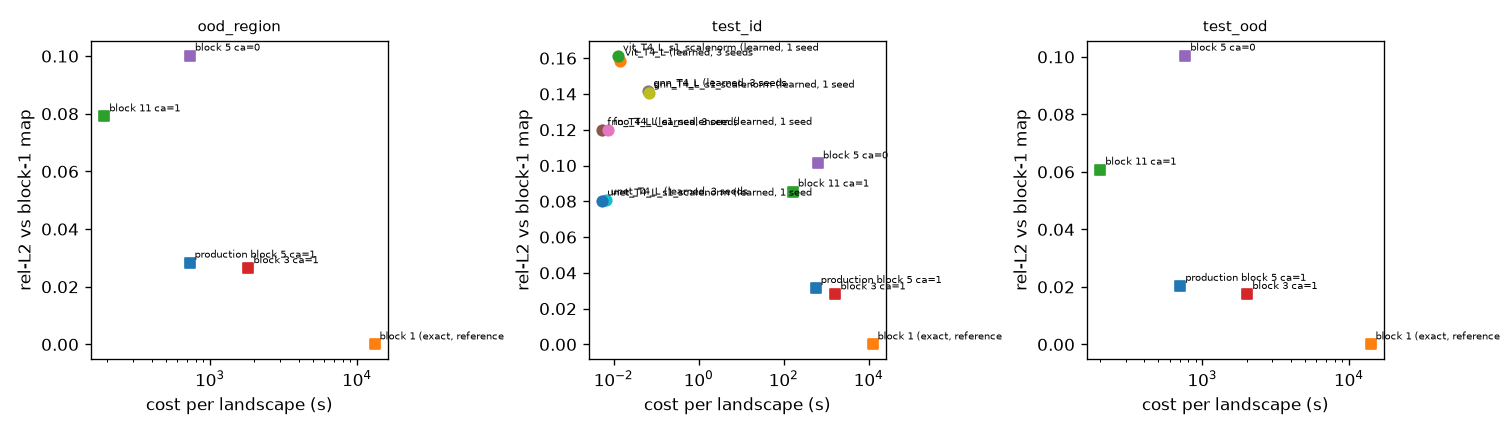
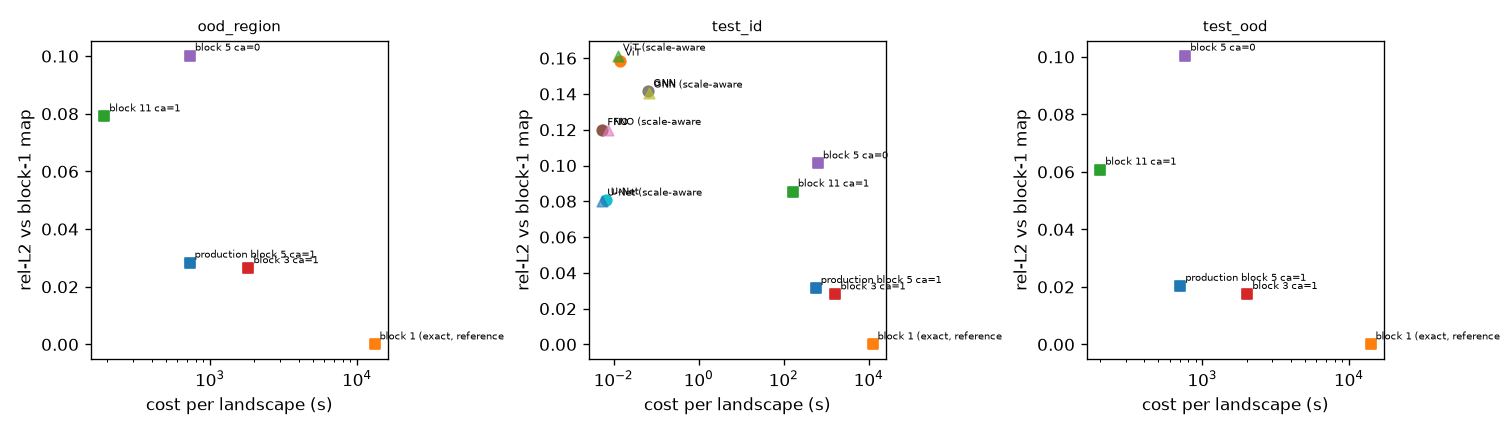
t4_pareto figure: short model labels, scale-aware variants as triangles

diff --git a/scripts/t4_pareto.py b/scripts/t4_pareto.py
@@ -135,6 +135,17 @@ def model_rows(runs: list[pathlib.Path], tier: str) -> pd.DataFrame:
     return agg.drop(columns="seeds")
 
 
+def short_label(method: str) -> str:
+    """'unet_T4_L (learned, 3 seeds)' -> 'U-Net'; '…_s1_scalenorm (learned, 1 seed)' -> 'U-Net (scale-aware)'; solver rows unchanged."""
+    import re as _re
+
+    mm = _re.match(r"^(unet|fno|vit|gnn)_T4_\w+?(_s\d+)?(_scalenorm)? \(learned", method)
+    if not mm:
+        return method
+    name = {"unet": "U-Net", "fno": "FNO", "vit": "ViT", "gnn": "GNN"}[mm.group(1)]
+    return name + (" (scale-aware)" if mm.group(3) else "")
+
+
 def main():
     ap = argparse.ArgumentParser()
     ap.add_argument("--reference", required=True)
@@ -183,9 +194,17 @@ def main():
         for ax, split in zip(axes[0], splits, strict=True):
             g = df[(df.split == split) & df.cost_s.notna()]
             for r in g.itertuples():
-                ax.scatter(r.cost_s, r.rel_l2, s=40, marker="o" if "learned" in r.method else "s")
+                learned = "learned" in r.method
+                variant = "scalenorm" in r.method
+                ax.scatter(
+                    r.cost_s,
+                    r.rel_l2,
+                    s=40,
+                    marker=("^" if variant else "o") if learned else "s",
+                    alpha=0.6 if variant else 1.0,
+                )
                 ax.annotate(
-                    r.method.replace(" (correct_artifacts=", " ca=").replace(")", ""),
+                    short_label(r.method).replace(" (correct_artifacts=", " ca=").replace(")", ""),
                     (r.cost_s, r.rel_l2),
                     fontsize=6,
                     xytext=(3, 3),
